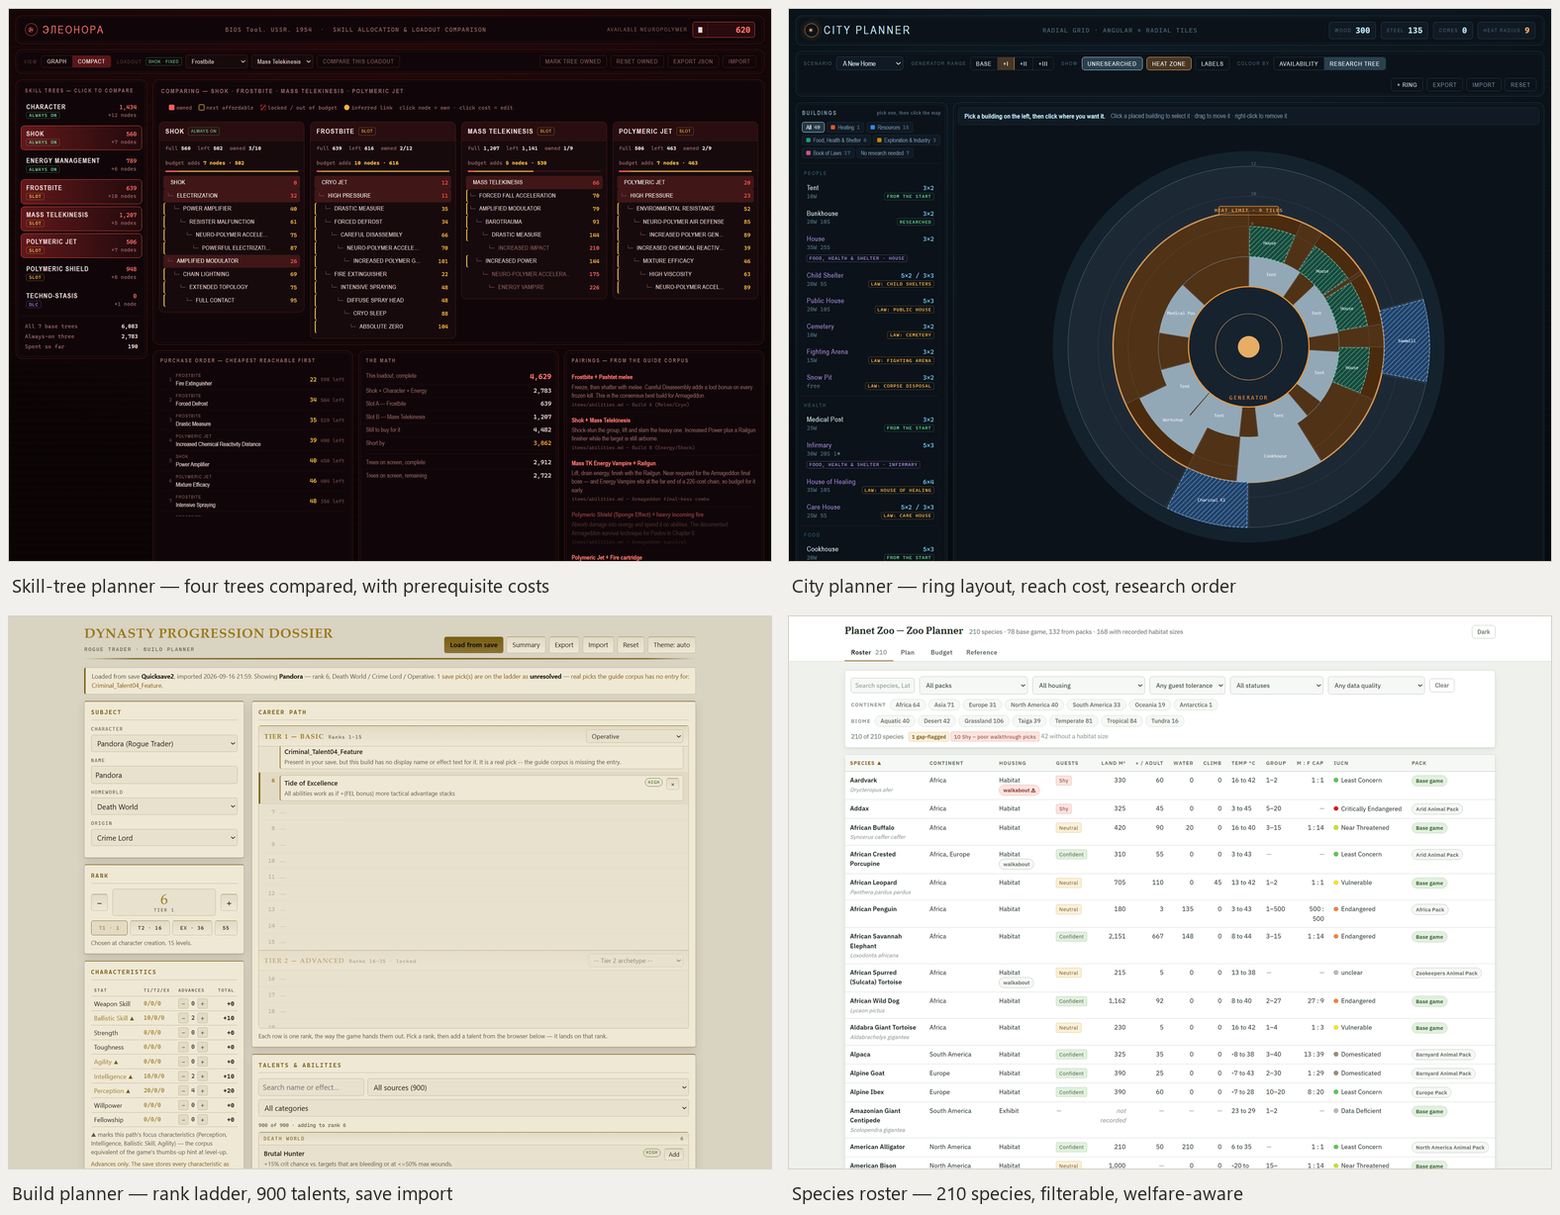
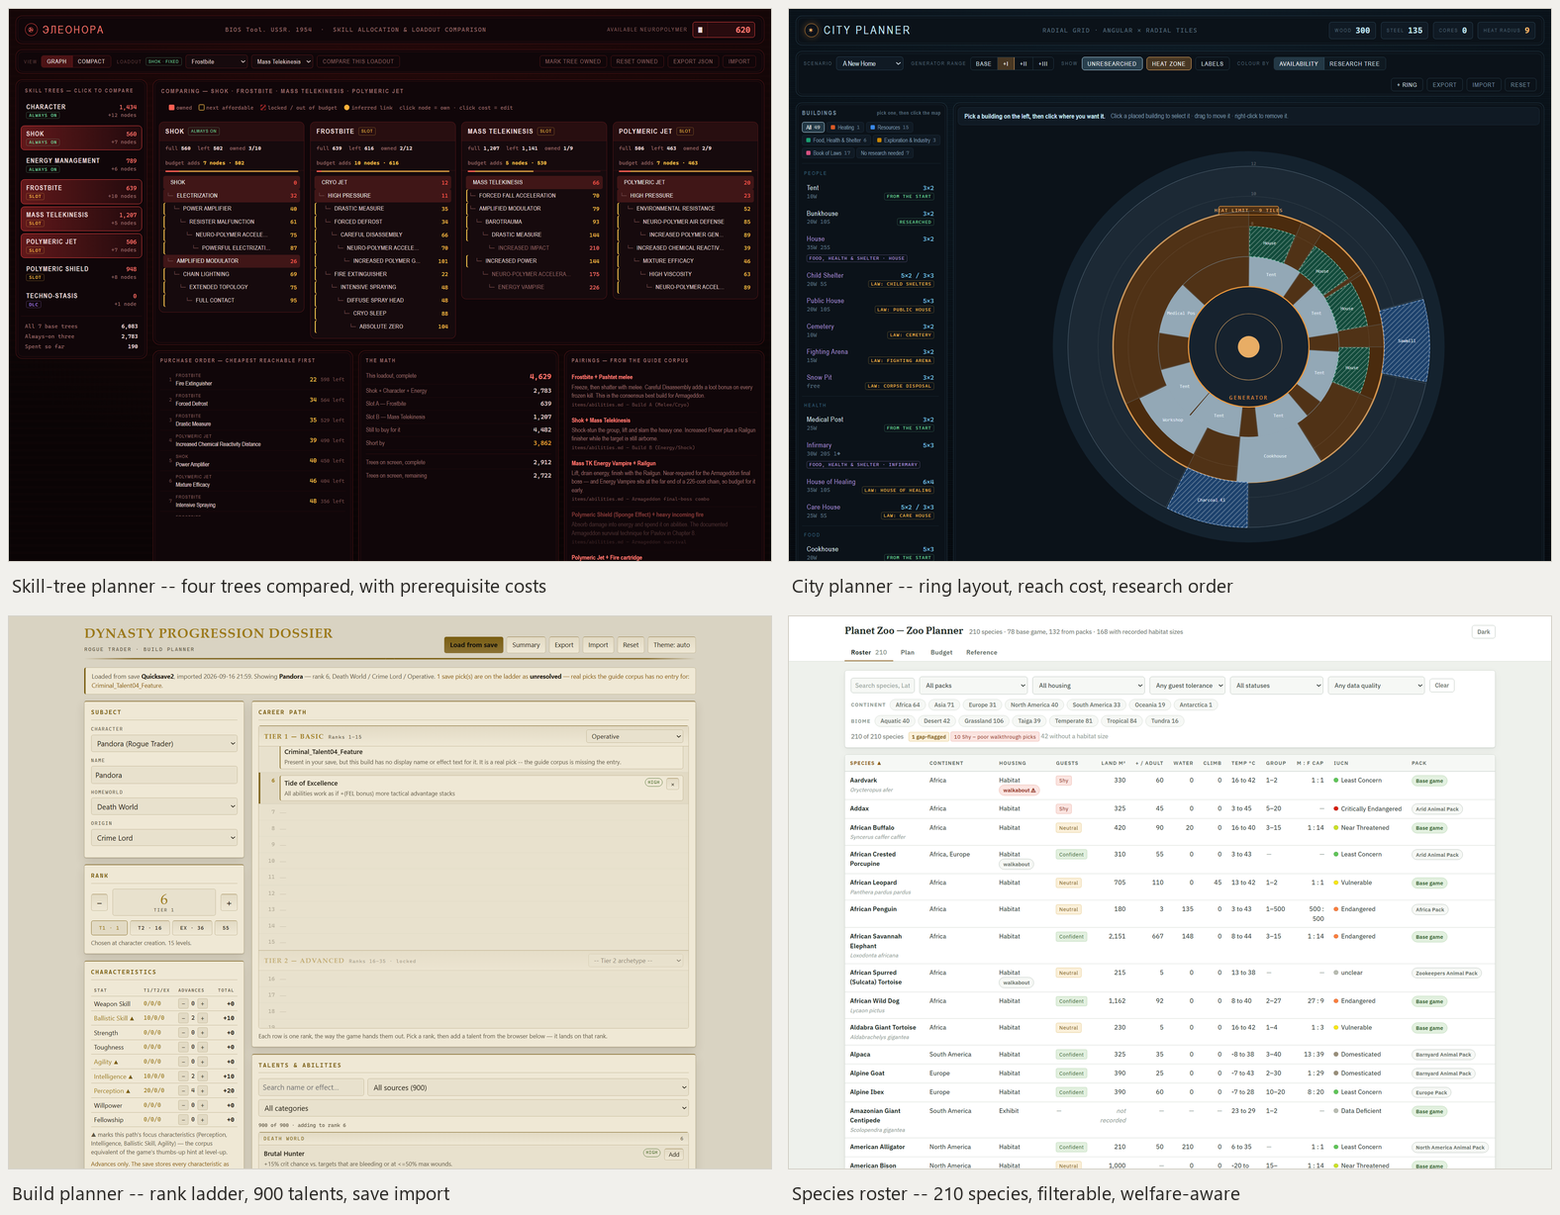
README: name the tools section honestly, reshape the dossier image
"What people build with it" was wrong twice. Nobody else has built these -- the
maintainer built all four -- and the title conveyed nothing about what the
pictures show. Now "Real tools for real playthroughs", which points at the use.

The dossier image was near-square at 1107x1206, and GitHub scales an image to the
column width, so it rendered as tall as the column is wide and swamped the page.
Cropped to the masthead, name, chips and route stamp: a banner shape at 1107x660.
Its caption promised stats, perks and loadout, which that crop no longer shows,
so the caption now claims only what is in the picture.

All six baked captions lose their em-dashes for the double hyphen the README body
already uses.

diff --git a/README.md b/README.md
@@ -20,7 +20,7 @@ Already installed? Same line, one word different:
 
 Per-runtime details in [`docs/install/`](docs/install/).
 
-## What people build with it
+## Real tools for real playthroughs
 
 ![Four planner tools built on Hintforge guides: a skill-tree planner comparing four trees with prerequisite costs, a city planner showing ring layout and reach cost, a character build planner with a rank ladder and talent browser, and a filterable species roster](assets/readme-tools-grid.png)
 
